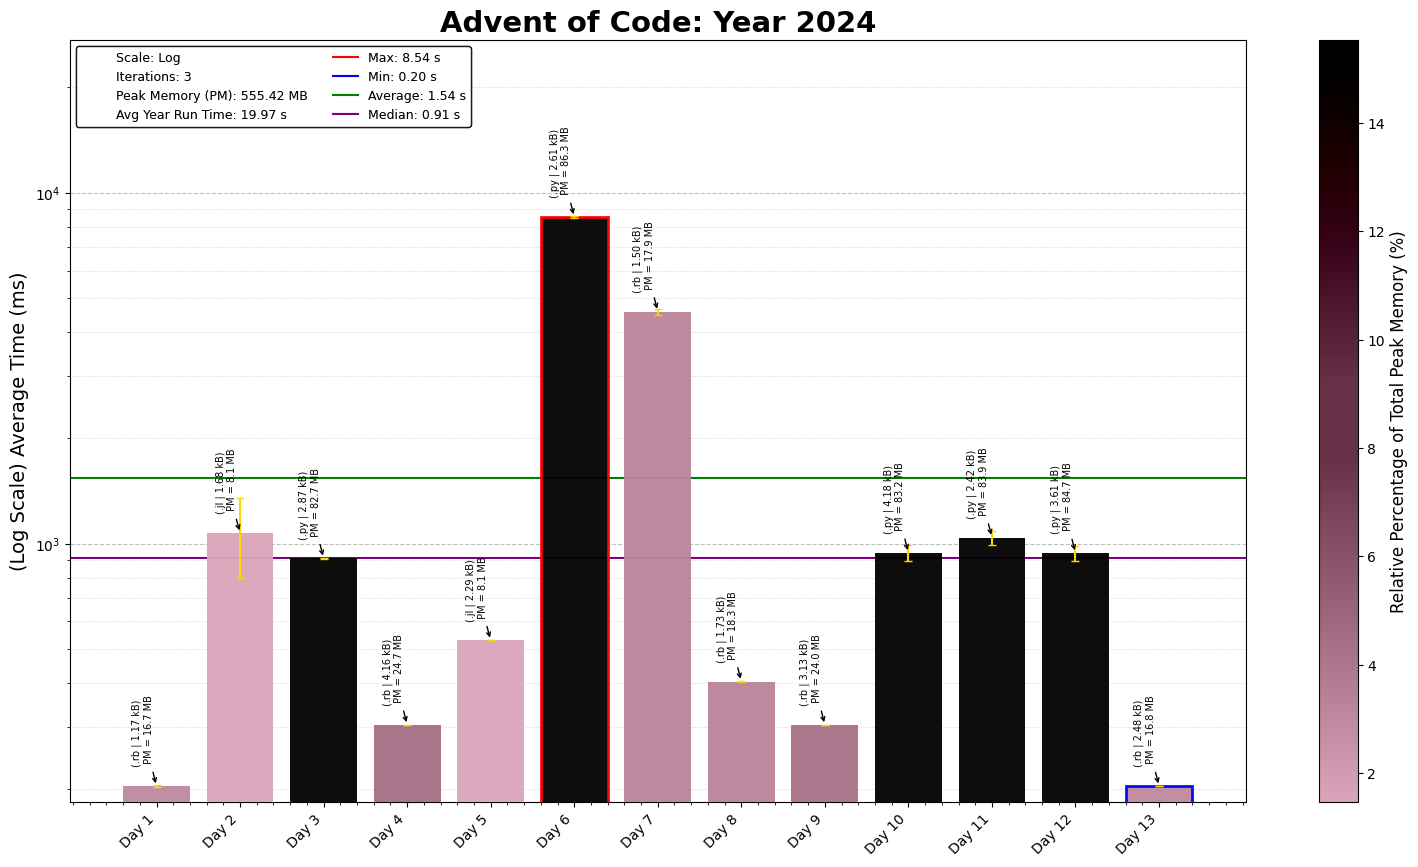
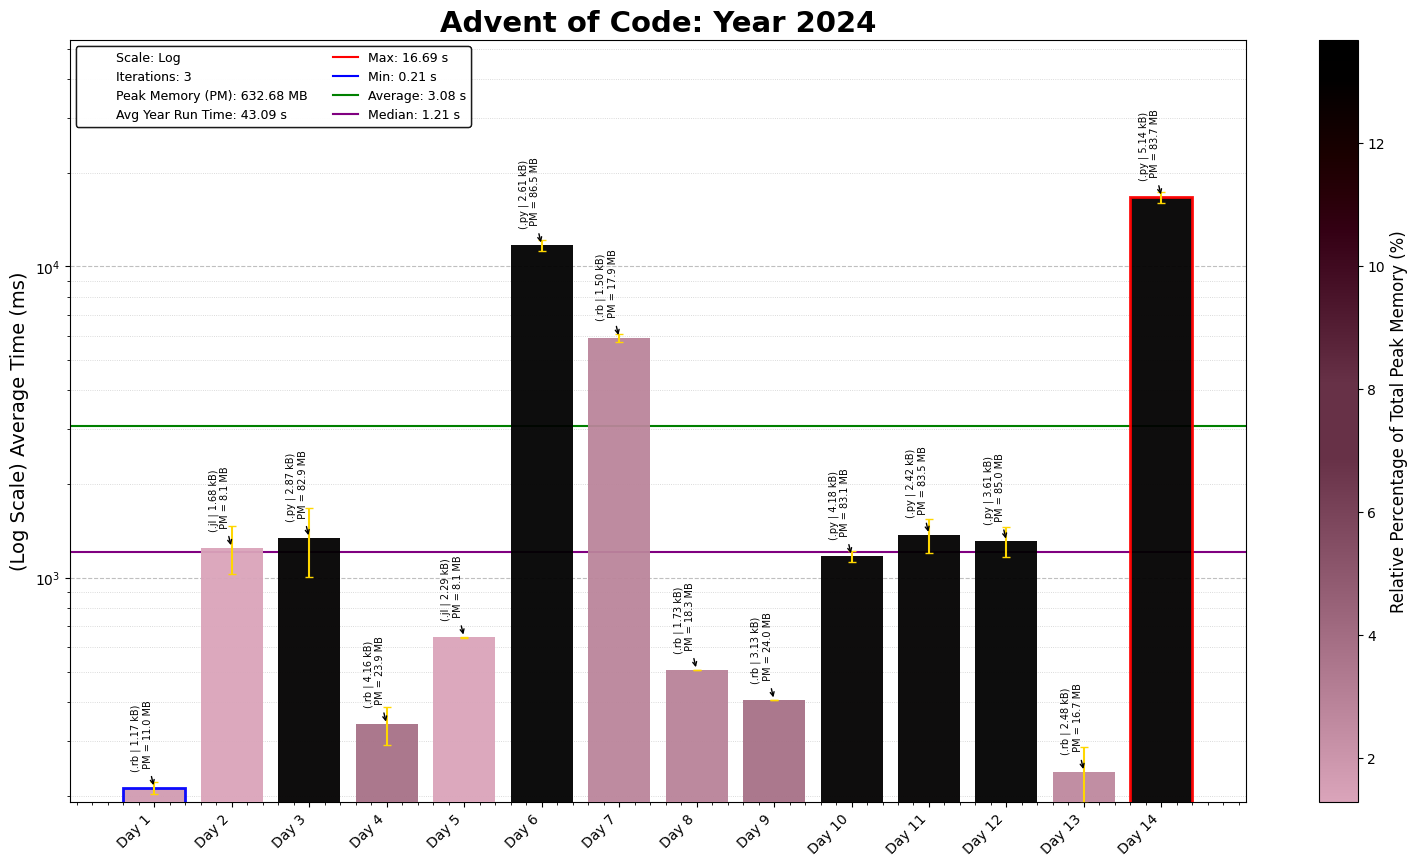
2024 Day 14

diff --git a/2024/14/2024Day14.py b/2024/14/2024Day14.py
@@ -1,0 +1,136 @@
+"""Advent of Code - Day 14, Year 2024
+Solution Started: Dec 14, 2024
+Puzzle Link: https://adventofcode.com/2024/day/14
+Solution by: abbasmoosajee07
+Brief: [Find Easter Egg]
+"""
+
+# #!/usr/bin/env python3
+
+import os, re, copy,time
+import numpy as np
+import pandas as pd
+import matplotlib.pyplot as plt
+from collections import deque
+
+# Load input data from the specified file path
+D14_file = "Day14_input.txt"
+D14_file_path = os.path.join(os.path.dirname(os.path.abspath(__file__)), D14_file)
+
+# Read and sort input data into a grid
+with open(D14_file_path) as file:
+    input_data = file.read().strip().split('\n')
+GRID_SIZE = (101, 103)
+X, Y = GRID_SIZE
+DIRS = [(-1, 0), (1, 0), (0, -1), (0, 1)]  # Directions for BFS
+
+
+def parse_input(particle_list):
+    """Parse the input data into a dictionary of particles."""
+    particle_dict = {}
+    for particle_no, particle_properties in enumerate(particle_list):
+        p_x, p_y, v_x, v_y = map(int, re.findall(r'-?\d+', particle_properties))
+        particle_dict[particle_no] = {'p_x': p_x, 'p_y': p_y, 'v_x': v_x, 'v_y': v_y}
+    return particle_dict
+
+def update_particle_position(properties, grid_size = GRID_SIZE):
+    """Update a particle's position based on its velocity."""
+    properties['p_x'] += properties['v_x']
+    properties['p_y'] += properties['v_y']
+    properties['p_x'] %= grid_size[0]
+    properties['p_y'] %= grid_size[1]
+
+def calculate_safety_score(particles, grid_size = GRID_SIZE):
+    """Calculate the safety score based on particle positions in quadrants."""
+    quadrant_counts = [0, 0, 0, 0]  # Quadrant counts: [Q1, Q2, Q3, Q4]
+    
+    for properties in particles.values():
+        final_x, final_y = properties['p_x'], properties['p_y']
+
+        # Exclude midpoint
+        if final_x == grid_size[0] // 2 or final_y == grid_size[1] // 2:
+            continue
+
+        # Correct quadrant assignment
+        if 0 <= final_x < grid_size[0] // 2 and 0 <= final_y < grid_size[1] // 2:
+            quadrant_counts[0] += 1  # Quadrant 1
+        elif grid_size[0] // 2 < final_x < grid_size[0] and 0 <= final_y < grid_size[1] // 2:
+            quadrant_counts[1] += 1  # Quadrant 2
+        elif 0 <= final_x < grid_size[0] // 2 and grid_size[1] // 2 < final_y < grid_size[1]:
+            quadrant_counts[2] += 1  # Quadrant 3
+        elif grid_size[0] // 2 < final_x < grid_size[0] and grid_size[1] // 2 < final_y < grid_size[1]:
+            quadrant_counts[3] += 1  # Quadrant 4
+
+    # Safety score is the product of particles in each quadrant
+    return quadrant_counts[0] * quadrant_counts[1] * quadrant_counts[2] * quadrant_counts[3]
+
+def find_connected_components(grid):
+    """Find the number of connected components of particles in the grid."""
+    components = 0
+    SEEN = set()
+
+    # BFS to find connected components
+    for x in range(X):
+        for y in range(Y):
+            if grid[y][x] == '#' and (x, y) not in SEEN:
+                components += 1
+                Q = deque([(x, y)])
+                while Q:
+                    x2, y2 = Q.popleft()
+                    if (x2, y2) in SEEN:
+                        continue
+                    SEEN.add((x2, y2))
+                    for dx, dy in DIRS:
+                        xx, yy = x2 + dx, y2 + dy
+                        if 0 <= xx < X and 0 <= yy < Y and grid[yy][xx] == '#':
+                            Q.append((xx, yy))
+    return components
+
+def visualize_particles(grid, time_step, file_path='grid_output.txt'):
+    """Visualize the grid and append it to a text file."""
+    # Prepare the header for this time step
+    time_step_header = f"\n--- Time Step {time_step} ---\n"
+
+    # Convert the grid into a string representation
+    text_grid = '\n'.join(''.join(row) for row in grid)
+
+
+    # Append the grid for this time step to the file
+    with open(file_path, 'a') as file:
+        file.write(time_step_header)
+        file.write(text_grid)
+        file.write("\n")  # Add an empty line after each time step grid for separation
+
+    print(f"Grid for time step {time_step} saved to {file_path}")
+
+particles = parse_input(input_data)
+
+for min in range(1, GRID_SIZE[0]*GRID_SIZE[1] * len(particles)):  # Start from 101 as Part 1 already simulated the first 100 steps
+    # Update positions for the next time step
+    for properties in particles.values():
+        update_particle_position(properties, GRID_SIZE)
+
+    # Calculate safety score
+    safety_score = calculate_safety_score(particles, GRID_SIZE)
+
+    if min == 100: # Part 1 time
+        print(f"Part 1: {safety_score}")
+
+    # Check for fewer than 200 connected components
+    grid = [[' ' for _ in range(X)] for _ in range(Y)]
+    for properties in particles.values():
+        x, y = properties['p_x'], properties['p_y']
+        grid[y][x] = '#'
+
+    components = find_connected_components(grid)
+    # visualize_particles(grid, min)
+
+    # Track the minimum safety score and time step with fewer than 200 components
+    if components <= 200:
+        easter_egg = True
+        print(f"Part 2: {min}")
+        break
+    else:
+        easter_egg = None
+if easter_egg is None:
+    print("Part 2: No Christmas Tree Found")

diff --git a/2024/14/Alt2024Day14.rb b/2024/14/Alt2024Day14.rb
@@ -1,0 +1,151 @@
+=begin
+Advent of Code - Day 14, Year 2024
+Solution Started: Dec 14, 2024
+Puzzle Link: https://adventofcode.com/2024/day/14
+Solution by: abbasmoosajee07
+Brief: [Find Easter Egg]
+=end
+
+#!/usr/bin/env ruby
+
+require 'pathname'
+require 'set'
+require 'csv'
+
+# Define file name and extract complete path to the input file
+D14_file = "Day14_input.txt"
+D14_file_path = Pathname.new(__FILE__).dirname + D14_file
+
+# Read and sort input data into a grid
+input_data = File.read(D14_file_path).strip.split("\n")
+
+GRID_SIZE = [101, 103]
+X, Y = GRID_SIZE
+DIRS = [[-1, 0], [1, 0], [0, -1], [0, 1]]  # Directions for BFS
+
+def parse_input(particle_list)
+  # Parse the input data into a dictionary of particles
+  particle_dict = {}
+  particle_list.each_with_index do |particle_properties, particle_no|
+    p_x, p_y, v_x, v_y = particle_properties.scan(/-?\d+/).map(&:to_i)
+    particle_dict[particle_no] = { 'p_x' => p_x, 'p_y' => p_y, 'v_x' => v_x, 'v_y' => v_y }
+  end
+  particle_dict
+end
+
+def update_particle_position(properties, grid_size = GRID_SIZE)
+  # Update a particle's position based on its velocity
+  properties['p_x'] += properties['v_x']
+  properties['p_y'] += properties['v_y']
+  properties['p_x'] %= grid_size[0]
+  properties['p_y'] %= grid_size[1]
+end
+
+def calculate_safety_score(particles, grid_size = GRID_SIZE)
+  # Calculate the safety score based on particle positions in quadrants
+  quadrant_counts = [0, 0, 0, 0]  # Quadrant counts: [Q1, Q2, Q3, Q4]
+
+  particles.each_value do |properties|
+    final_x, final_y = properties['p_x'], properties['p_y']
+
+    # Exclude midpoint
+    next if final_x == grid_size[0] / 2 || final_y == grid_size[1] / 2
+
+    # Correct quadrant assignment
+    if final_x < grid_size[0] / 2 && final_y < grid_size[1] / 2
+      quadrant_counts[0] += 1  # Quadrant 1
+    elsif final_x > grid_size[0] / 2 && final_y < grid_size[1] / 2
+      quadrant_counts[1] += 1  # Quadrant 2
+    elsif final_x < grid_size[0] / 2 && final_y > grid_size[1] / 2
+      quadrant_counts[2] += 1  # Quadrant 3
+    elsif final_x > grid_size[0] / 2 && final_y > grid_size[1] / 2
+      quadrant_counts[3] += 1  # Quadrant 4
+    end
+  end
+
+  # Safety score is the product of particles in each quadrant
+  quadrant_counts.reduce(1) { |acc, count| acc * count }
+end
+
+def find_connected_components(grid)
+  # Find the number of connected components of particles in the grid
+  components = 0
+  seen = Set.new
+
+  # BFS to find connected components
+  X.times do |x|
+    Y.times do |y|
+      next if grid[y][x] != '#' || seen.include?([x, y])
+
+      components += 1
+      queue = [[x, y]]
+
+      until queue.empty?
+        x2, y2 = queue.shift
+        next if seen.include?([x2, y2])
+
+        seen.add([x2, y2])
+
+        DIRS.each do |dx, dy|
+          xx, yy = x2 + dx, y2 + dy
+          queue << [xx, yy] if xx.between?(0, X-1) && yy.between?(0, Y-1) && grid[yy][xx] == '#'
+        end
+      end
+    end
+  end
+
+  components
+end
+
+def visualize_particles(grid, time_step, file_path = 'grid_output.txt')
+  # Visualize the grid and append it to a text file
+  time_step_header = "\n--- Time Step #{time_step} ---\n"
+
+  # Convert the grid into a string representation
+  text_grid = grid.map { |row| row.join('') }.join("\n")
+
+  # Append the grid for this time step to the file
+  File.open(file_path, 'a') do |file|
+    file.write(time_step_header)
+    file.write(text_grid)
+    file.write("\n")  # Add an empty line after each time step grid for separation
+  end
+
+  puts "Grid for time step #{time_step} saved to #{file_path}"
+end
+
+particles = parse_input(input_data)
+
+easter_egg = nil
+
+(1..(GRID_SIZE[0] * GRID_SIZE[1])).each do |min|
+  # Update positions for the next time step
+  particles.each_value do |properties|
+    update_particle_position(properties, GRID_SIZE)
+  end
+
+  # Calculate safety score
+  safety_score = calculate_safety_score(particles, GRID_SIZE)
+
+  if min == 100  # Part 1 time
+    puts "Part 1: #{safety_score}"
+  end
+
+  # Check for fewer than 200 connected components
+  grid = Array.new(Y) { Array.new(X, ' ') }
+  particles.each_value do |properties|
+    x, y = properties['p_x'], properties['p_y']
+    grid[y][x] = '#'
+  end
+
+  components = find_connected_components(grid)
+
+  # Track the minimum safety score and time step with fewer than 200 components
+  if components <= 200
+    easter_egg = true
+    puts "Part 2: #{min}"
+    break
+  end
+end
+
+puts "Part 2: No Christmas Tree Found" if easter_egg.nil?

diff --git a/2024/README_2024.md b/2024/README_2024.md
@@ -17,3 +17,4 @@ This repository contains coding solutions for the 2024 Advent of Code. Its the f
 11. **Day 11- Plutonian Pebbles**: *Python* | Exponentially increasing lists, that becomes way more easy to solve when you switch to dictionaries and counters.
 12. **Day 12- Garden Groups**: ** | Pretty simple neighbour searching algorithm, with some added complexity for finding perimeter and areas, Part 2 was kinda tough but got it in the end
 13. **Day 13- Claw Contraption**: *Ruby* | Solving simultaneous equations, fairly simple ad could have solved it far faster if i simply used round instead of int from the start, but lesson learned
+14. **Day 14- Restroom Redoubt**: *Python* | Particle Tracking in a grid, which was fairly simple, but finding the easter egg convinced me I never looked for one
